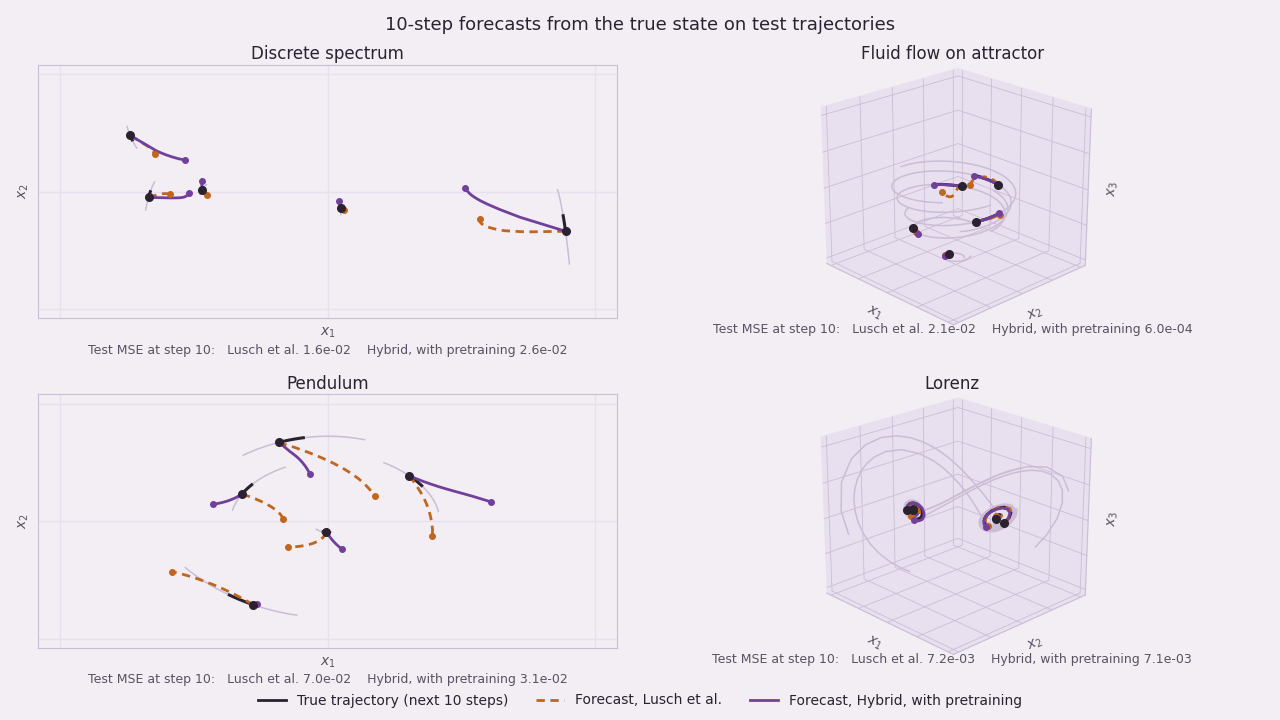
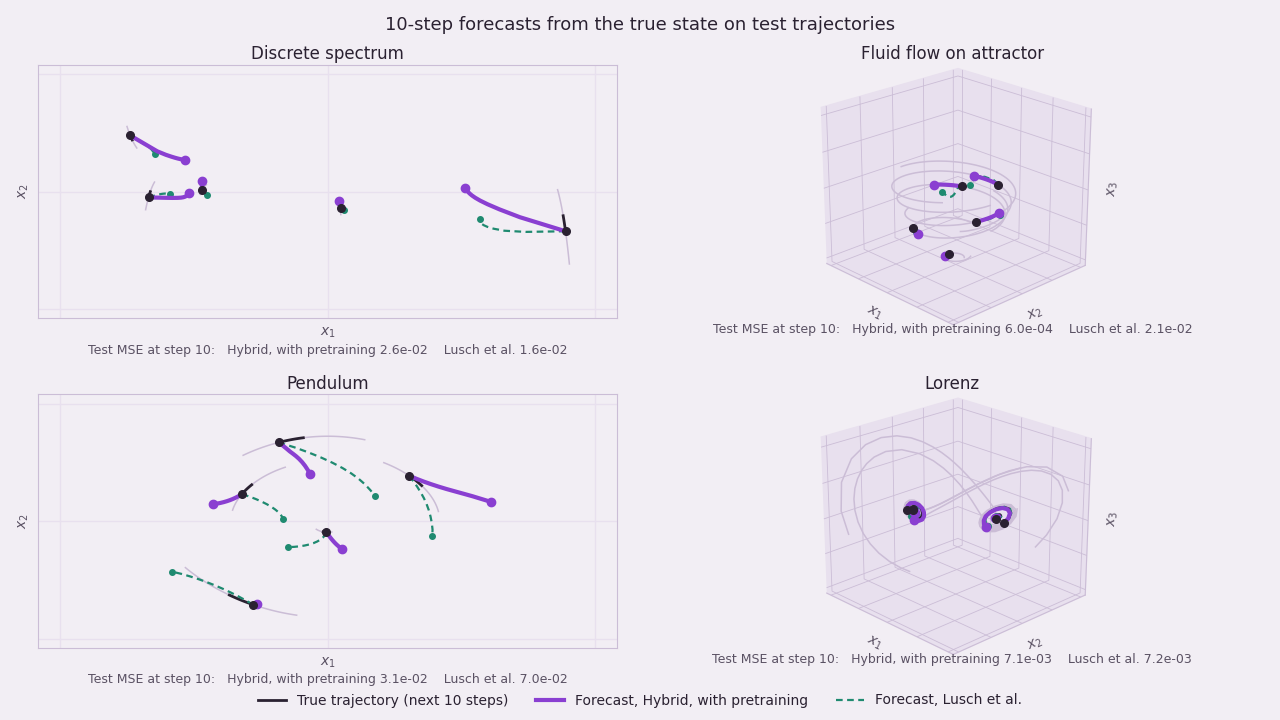
Video: emphasize the hybrid forecasts over the baseline

diff --git a/scripts/make_video.py b/scripts/make_video.py
@@ -30,11 +30,12 @@ from hybrid_koopman.data import csv_path, load_trajectories  # noqa: E402
 
 NAMES = {"DiscreteSpectrumExample": "Discrete spectrum", "FluidFlowOnAttractor": "Fluid flow on attractor",
          "Pendulum": "Pendulum", "Lorenz": "Lorenz"}
-# Light theme of the project website. The two default forecast colors pass a
-# color-vision-deficiency check on the background, and the baseline is also dashed.
+# Light theme of the project website. The forecast colors pass a color-vision-deficiency check
+# on the background. The proposed method is drawn widest and on top. The baseline is thinner and dashed.
 BG, BAND, INK, MUTED, LINE = "#f2eef4", "#e8e0ee", "#2a2131", "#5a5163", "#cbbdd6"
-STYLE = {"lusch": dict(color="#c0661f", ls=(0, (3, 2))), "hybrid": dict(color="#71409b", ls="-"),
-         "hybrid_no_pretrain": dict(color="#3d7a8a", ls=(0, (1, 1.5)))}
+STYLE = {"hybrid": dict(color="#8a3fd1", ls="-", lw=3.0, ms=6, z=6),
+         "hybrid_no_pretrain": dict(color="#3b7fa8", ls=(0, (1, 1.5)), lw=1.8, ms=4, z=5),
+         "lusch": dict(color="#1f8a70", ls=(0, (3, 2)), lw=1.6, ms=4, z=4)}
 
 
 def load_system(system, modes, checkpoints, data, quantiles, horizon):
@@ -94,7 +95,7 @@ def main():
     ap.add_argument("--checkpoints", default="checkpoints")
     ap.add_argument("--data", default="data/csv")
     ap.add_argument("--systems", nargs="+", default=list(SYSTEMS))
-    ap.add_argument("--modes", nargs="+", default=["lusch", "hybrid"])
+    ap.add_argument("--modes", nargs="+", default=["hybrid", "lusch"])
     ap.add_argument("--quantiles", nargs="+", type=float, default=[0.1, 0.3, 0.5, 0.7, 0.9])
     ap.add_argument("--horizon", type=int, default=10)
     ap.add_argument("--seconds", type=float, default=12.0)
@@ -118,7 +119,8 @@ def main():
     fig.text(0.5, 0.965, f"{H}-step forecasts from the true state on test trajectories",
              ha="center", va="center", fontsize=13, color=INK)
     handles = [Line2D([], [], color=INK, lw=2, label=f"True trajectory (next {H} steps)")]
-    handles += [Line2D([], [], lw=2, label=f"Forecast, {MODE_LABELS[m]}", **STYLE[m]) for m in a.modes]
+    handles += [Line2D([], [], color=STYLE[m]["color"], ls=STYLE[m]["ls"], lw=STYLE[m]["lw"],
+                       label=f"Forecast, {MODE_LABELS[m]}") for m in a.modes]
     fig.legend(handles=handles, loc="lower center", ncol=len(handles), frameon=False, fontsize=10,
                bbox_to_anchor=(0.5, 0.0))
 
@@ -145,11 +147,12 @@ def main():
         art = []
         for j in range(n_traj):
             ax.plot(*truth[j].T, color=LINE, lw=1.1)
-            art.append({"future": line(color=INK, lw=2.2, zorder=3),
-                        "now": line(color=INK, marker="o", ms=5.5, ls="none", zorder=5),
-                        "pred": {m: line(lw=2.0, zorder=4, **STYLE[m]) for m in a.modes},
-                        "end": {m: line(marker="o", ms=4, ls="none", color=STYLE[m]["color"], zorder=4)
-                                for m in a.modes}})
+            art.append({"future": line(color=INK, lw=2.0, zorder=3),
+                        "now": line(color=INK, marker="o", ms=5.5, ls="none", zorder=7),
+                        "pred": {m: line(color=STYLE[m]["color"], ls=STYLE[m]["ls"], lw=STYLE[m]["lw"],
+                                         zorder=STYLE[m]["z"]) for m in a.modes},
+                        "end": {m: line(marker="o", ms=STYLE[m]["ms"], ls="none", color=STYLE[m]["color"],
+                                        zorder=STYLE[m]["z"]) for m in a.modes}})
         # Current time c is the index of the last true state given to the models.
         c_min, c_max = max(d["memory"].values()) - 1, T - H - 1
         panels.append((ax, three, d, art, c_min, c_max))
